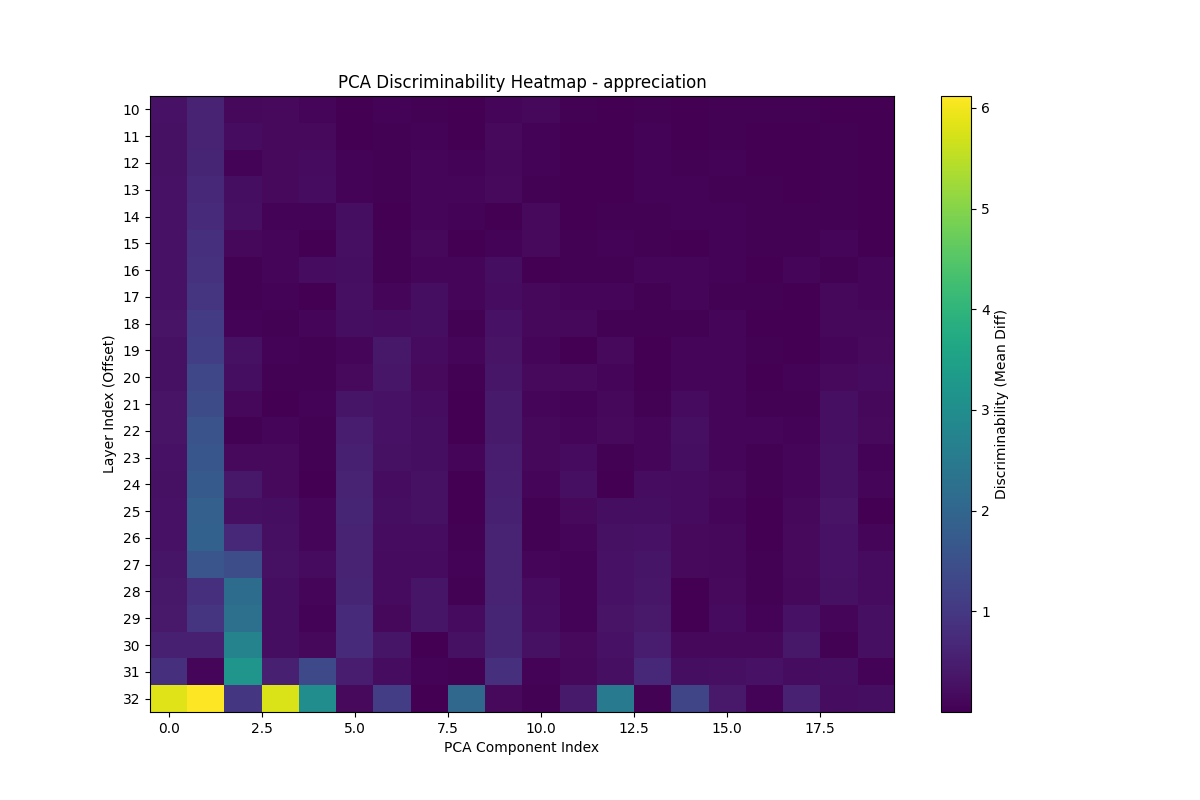
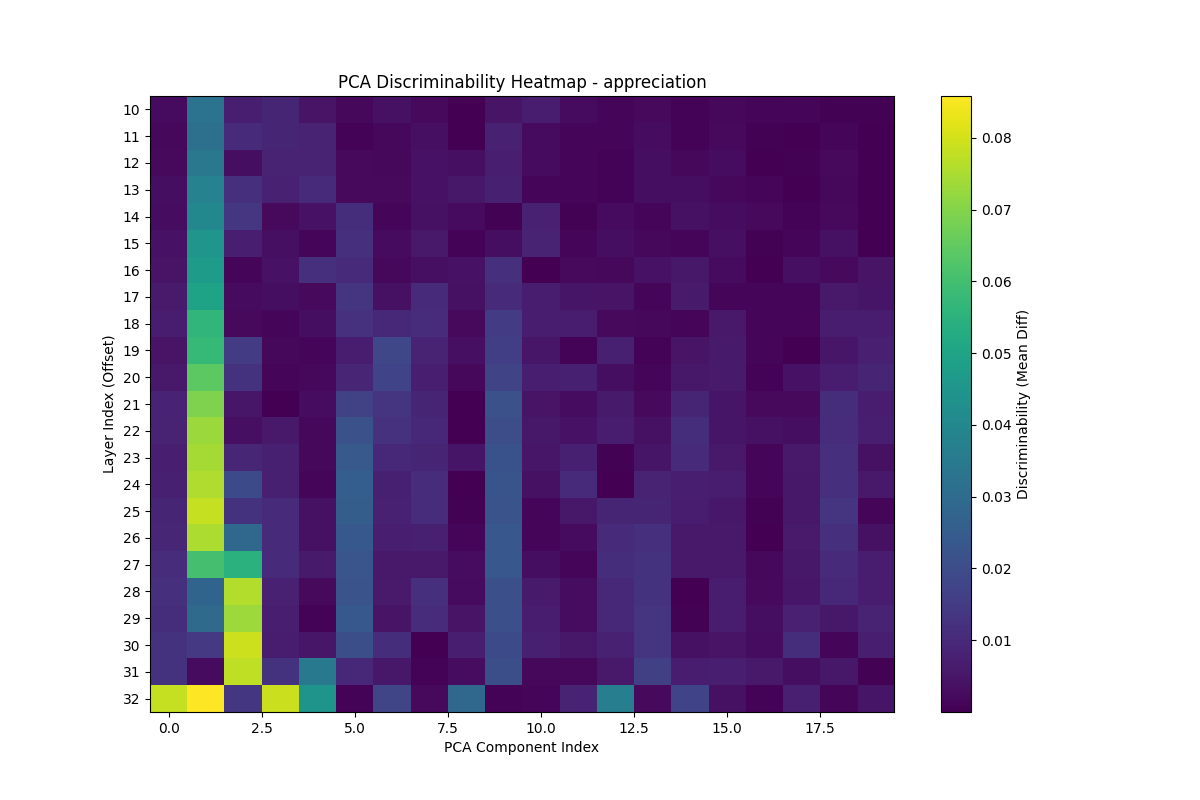
moved to normalised PCA

diff --git a/linear_probe/control/test_probe_dir_to_simple_baseline.py b/linear_probe/control/test_probe_dir_to_simple_baseline.py
@@ -1,6 +1,6 @@
 import argparse
-import math
 import sys
+import re
 from pathlib import Path
 
 import torch
@@ -22,8 +22,8 @@ def main():
     )
     parser.add_argument("--model", type=str,
                         default="meta-llama/Meta-Llama-3.1-8B-Instruct")
-    parser.add_argument("--probe_path", type=str, required=True,
-                        help="Path to the trained probe dictionary .pt file.")
+    parser.add_argument("--probes_folder_path", type=str, required=True,
+                        help="Path to the folder containing mass_mass_vector and PCA files.")
     parser.add_argument("--dataset_name", type=str, default="simple_data",
                         help="Dataset for baseline words (default: simple_data).")
     parser.add_argument("--min_layer_to_save", type=int, default=16,
@@ -44,12 +44,37 @@ def main():
     model.to(device)
     print(f"✅ Model loaded on {device}\n")
 
-    # ── Load probe vector dictionary ─────────────────────────────────────
-    print(f"📐 Loading probe vectors from: {args.probe_path}")
-    probe_dict = torch.load(args.probe_path, map_location="cpu")
-    print(f"   Loaded probe dictionary keys: {list(probe_dict.keys())}")
+    # ── Discover and Load Probes ──────────────────────────────────────────
+    folder = Path(args.probes_folder_path)
+    print(f"📐 Scanning probes in: {folder}")
+    
+    mmv_probes = {}  # layer -> vector
+    pca_probes = []  # list of (layer, comp_idx, vector)
+    
+    # 1. Load Mass-Mass Vectors (dict of layers)
+    mmv_files = list(folder.glob("mass_mass_vector*.pt"))
+    if mmv_files:
+        print(f"   Found Mass-Mass Vector file: {mmv_files[0].name}")
+        loaded_mmv = torch.load(mmv_files[0], map_location="cpu")
+        if isinstance(loaded_mmv, dict):
+            mmv_probes = loaded_mmv
+        else:
+            print("   ⚠ Warning: mass_mass_vector file is not a dictionary. Skipping.")
+    
+    # 2. Load PCA files
+    # Format: PCA_num_{comp_idx}_layer_{layer}_{concept_name}.pt
+    pca_pattern = re.compile(r"PCA_num_(\d+)_layer_(\d+)_")
+    for f in folder.glob("PCA_num_*.pt"):
+        match = pca_pattern.search(f.name)
+        if match:
+            comp_idx = int(match.group(1))
+            layer = int(match.group(2))
+            vector = torch.load(f, map_location="cpu")
+            pca_probes.append((layer, comp_idx, vector))
+            
+    print(f"   Loaded {len(mmv_probes)} layers from MMV and {len(pca_probes)} individual PCA probes.")
 
-    # extract concept vector from baseline by layer
+    # ── Extract Baselines ────────────────────────────────────────────────
     print(f"🛠  Extracting baseline-corrected vectors for '{args.concept_word}'...")
     baseline_vectors_all_layers = extract_control_from_baseline(
         model,
@@ -59,50 +84,91 @@ def main():
         args.concept_word
     )
     
-    layers_to_compare = sorted(set(probe_dict.keys()) & set(baseline_vectors_all_layers.keys()))
-    print(f"📊 Comparing across {len(layers_to_compare)} layers: {layers_to_compare}")
+    # Unique layers to iterate over
+    all_layers = sorted(set(mmv_probes.keys()) | set(l for l, ci, v in pca_probes))
+    all_layers = [l for l in all_layers if l in baseline_vectors_all_layers]
+    
+    print(f"📊 Comparing across {len(all_layers)} layers: {all_layers}")
 
-    cos_sims = []
-    euclidean_dists = []
-    labels = []
+    results = []  # List of {'type': ..., 'layer': ..., 'cos_sim': ..., 'dist': ..., 'label': ...}
 
-    for layer in layers_to_compare:
-        probe_v = probe_dict[layer].detach().cpu().float().numpy().reshape(1, -1)
+    for layer in all_layers:
         baseline_v = baseline_vectors_all_layers[layer][args.vec_type].detach().cpu().float().numpy().reshape(1, -1)
-
-        # compute cosine sim
-        cos_sim = float(cosine_similarity(probe_v, baseline_v)[0, 0])
         
-        # euclidean Distance
-        dist = float(np.linalg.norm(probe_v - baseline_v))
-        
-        cos_sims.append(cos_sim)
-        euclidean_dists.append(dist)
-        labels.append(f"L{layer}")
-        
-        print(f"  Layer {layer:>2}: Cosine Sim = {cos_sim:.4f} | Euclidean Dist = {dist:.4f}")
+        # A. Mass-Mass Vector comparison
+        if layer in mmv_probes:
+            probe_v = mmv_probes[layer].detach().cpu().float().numpy().reshape(1, -1)
+            cos_sim = float(cosine_similarity(probe_v, baseline_v)[0, 0])
+            dist = float(np.linalg.norm(probe_v - baseline_v))
+            results.append({
+                'type': 'MMV',
+                'layer': layer,
+                'cos_sim': cos_sim,
+                'dist': dist,
+                'label': f"MMV L{layer}"
+            })
+            
+        # B. PCA components comparison
+        for l, comp_idx, v in pca_probes:
+            if l == layer:
+                probe_v = v.detach().cpu().float().numpy().reshape(1, -1)
+                cos_sim = float(cosine_similarity(probe_v, baseline_v)[0, 0])
+                dist = float(np.linalg.norm(probe_v - baseline_v))
+                results.append({
+                    'type': f'PCA {comp_idx}',
+                    'layer': layer,
+                    'cos_sim': cos_sim,
+                    'dist': dist,
+                    'label': f"PCA{comp_idx} L{layer}"
+                })
 
     # ── Plotting ──────────────────────────────────────────────────────────
-    plt.figure(figsize=(10, 6))
-    plt.scatter(euclidean_dists, cos_sims, color='blue', alpha=0.6, s=100)
+    if not results:
+        print("❌ No probes found for comparison. Exiting.")
+        return
+
+    plt.figure(figsize=(12, 8))
+    
+    # Split results into groups for markers/colors
+    mmv_results = [r for r in results if r['type'] == 'MMV']
+    pca_results = [r for r in results if 'PCA' in r['type']]
+    
+    # Plot Mass-Mass Vectors (Blue circles)
+    if mmv_results:
+        plt.scatter(
+            [r['dist'] for r in mmv_results], 
+            [r['cos_sim'] for r in mmv_results],
+            c='blue', alpha=0.8, s=150, label='Mass-Mean Vector', marker='o'
+        )
+    
+    # Plot PCA Components (Red diamonds)
+    if pca_results:
+        plt.scatter(
+            [r['dist'] for r in pca_results], 
+            [r['cos_sim'] for r in pca_results],
+            c='red', alpha=0.6, s=100, label='PCA Components', marker='D'
+        )
 
     # Label points
-    for i, label in enumerate(labels):
-        plt.annotate(label, (euclidean_dists[i], cos_sims[i]), 
-                     textcoords="offset points", xytext=(0,10), ha='center', fontsize=9)
+    for r in results:
+        plt.annotate(r['label'], (r['dist'], r['cos_sim']), 
+                     textcoords="offset points", xytext=(0,10), ha='center', fontsize=8)
 
-    plt.title(f"Comparison: Trained Probe vs Baseline ({args.concept_word})")
+    plt.title(f"Probe vs Baseline Comparison ({args.concept_word})")
     plt.xlabel("Euclidean Distance (L2 norm)")
     plt.ylabel("Cosine Similarity")
-    plt.gca().invert_xaxis()  # Low distance on the right
-    plt.grid(True, linestyle='--', alpha=0.7)
+    plt.gca().invert_xaxis()  # Low distance on the right (ideal)
+    plt.grid(True, linestyle='--', alpha=0.5)
+    plt.legend()
     
     # Save plot
     save_path = Path(args.save_dir)
     save_path.mkdir(parents=True, exist_ok=True)
-    file_name = f"comparison_{args.concept_word}_{args.vec_type}.png"
+    file_name = f"comparison_{args.concept_word}_{args.vec_type}_multi.png"
     plt.savefig(save_path / file_name)
-    print(f"\n🎨 Plot saved to: {save_path / file_name}")
+    print(f"\n🎨 Results summary for '{args.concept_word}':")
+    print(f"   Plotted {len(mmv_results)} MMV points and {len(pca_results)} PCA points.")
+    print(f"   Plot saved to: {save_path / file_name}")
     
     plt.show()
 

diff --git a/linear_probe/control/PCA.py b/linear_probe/control/PCA.py
@@ -51,10 +51,10 @@ def extract_PCA_from_activations(positive_avg: dict, negative_avg: dict, num_com
         for comp_idx in range(num_components):
             component = pca.components_[comp_idx]
             
-            # Project means onto the component (dot product)
-            p_proj = np.dot(p_mean, component)
-            n_proj = np.dot(n_mean, component)
-            
+            # Project means onto the component (normalised dot product)
+            p_proj = np.dot(p_mean, component) / np.linalg.norm(p_mean)
+            n_proj = np.dot(n_mean, component) / np.linalg.norm(n_mean)
+
             # Discriminability score: absolute difference in projected means
             diff = abs(p_proj - n_proj)
             layer_diffs.append(diff)
